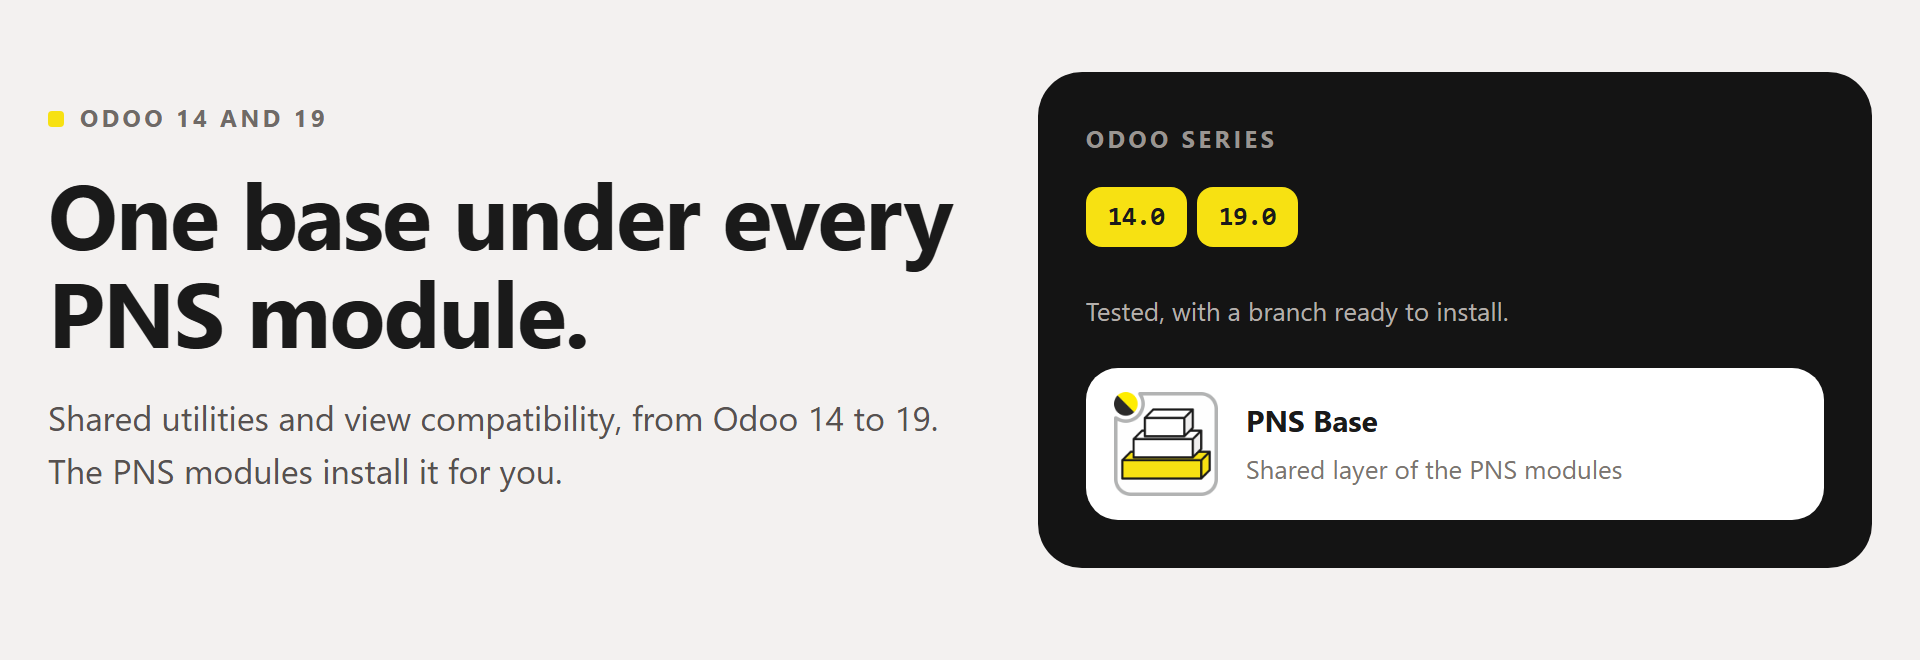
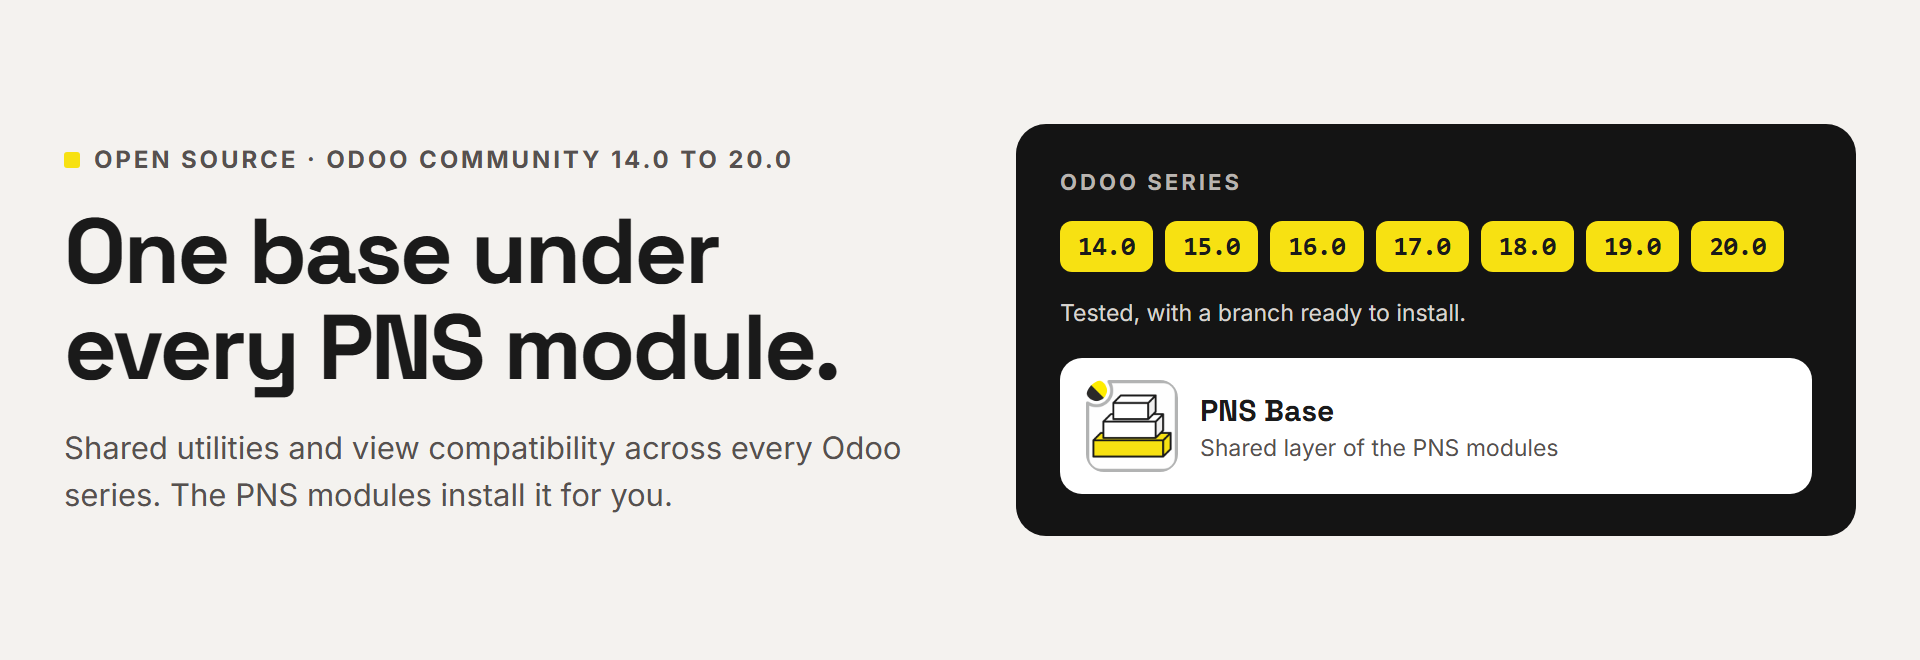
pns_base owl1 1.2.69 · owl2 1.2.83 · owl3 1.2.83
- Banners (Apps store, README and site) show the seven supported series, 14.0 to 20.0; the old ones still said 14 and 19. Images only.

Changed region(s): [[0.5312, 0.0909, 1.0, 0.8788], [0.0, 0.1515, 0.5, 0.7879]]

diff --git a/unit_tests/test_owl3_stack.py b/unit_tests/test_owl3_stack.py
@@ -8,9 +8,20 @@ import re
 from pathlib import Path
 
 ROOT = Path(__file__).resolve().parents[1]
-MODULE = ROOT.name
+# The module name is the folder inside stacks/owl2, not the clone's folder:
+# publish.sh runs these tests on a copy of the tree under another name.
+MODULE = next(
+    p.name for p in sorted((ROOT / 'stacks' / 'owl2').iterdir())
+    if p.is_dir() and (p / '__manifest__.py').is_file()
+)
 OWL2 = ROOT / 'stacks' / 'owl2' / MODULE
 OWL3 = ROOT / 'stacks' / 'owl3' / MODULE
+
+
+def test_both_stacks_exist():
+    # Without this, a wrong path makes every other test here pass on empty sets.
+    assert (OWL2 / '__manifest__.py').is_file()
+    assert (OWL3 / '__manifest__.py').is_file()
 
 
 def _files(base):

diff --git a/stacks/owl1/pns_base/__manifest__.py b/stacks/owl1/pns_base/__manifest__.py
@@ -5,7 +5,7 @@
 
 {
     'name': 'PNS Base',
-    'version': '1.2.68',
+    'version': '1.2.69',
     'category': 'Technical',
     'summary': 'PNS ecosystem base layer: single-branch view compatibility and cross-version Odoo utilities (14.0 and later)',
     'description': """

diff --git a/stacks/owl1/pns_base/__manifest_o15__.py b/stacks/owl1/pns_base/__manifest_o15__.py
@@ -8,7 +8,7 @@
 
 {
     'name': 'PNS Base',
-    'version': '1.2.68',
+    'version': '1.2.69',
     'category': 'Technical',
     'summary': 'PNS ecosystem base layer: single-branch view compatibility and cross-version Odoo utilities (14.0 and later)',
     'description': """

diff --git a/stacks/owl2/pns_base/__manifest__.py b/stacks/owl2/pns_base/__manifest__.py
@@ -5,7 +5,7 @@
 
 {
     'name': 'PNS Base',
-    'version': '1.2.82',
+    'version': '1.2.83',
     'category': 'Technical',
     'summary': 'PNS ecosystem base layer: single-branch view compatibility and cross-version Odoo utilities (14.0 and later)',
     'description': """

diff --git a/stacks/owl3/pns_base/__manifest__.py b/stacks/owl3/pns_base/__manifest__.py
@@ -5,7 +5,7 @@
 
 {
     'name': 'PNS Base',
-    'version': '1.2.82',
+    'version': '1.2.83',
     'category': 'Technical',
     'summary': 'PNS ecosystem base layer: single-branch view compatibility and cross-version Odoo utilities (14.0 and later)',
     'description': """

diff --git a/CHANGELOG.md b/CHANGELOG.md
@@ -2,6 +2,10 @@
 
 What changes for people who use this module, one section per published version, newest first. The heading is the git tag.
 
+## owl1-1.2.69_owl2-1.2.83_owl3-1.2.83 (2026-11-09)
+
+- Banners (Apps store, README and site) show the seven supported series, 14.0 to 20.0; the old ones still said 14 and 19. Images only.
+
 ## owl1-1.2.68_owl2-1.2.82_owl3-1.2.82 (2026-11-09)
 
 - Seven tested series, each with its flat branch: 14.0 and 15.0 (owl1), 16.0 to 19.0 (owl2) and 20.0 (owl3, a new stack written for Owl 3).
